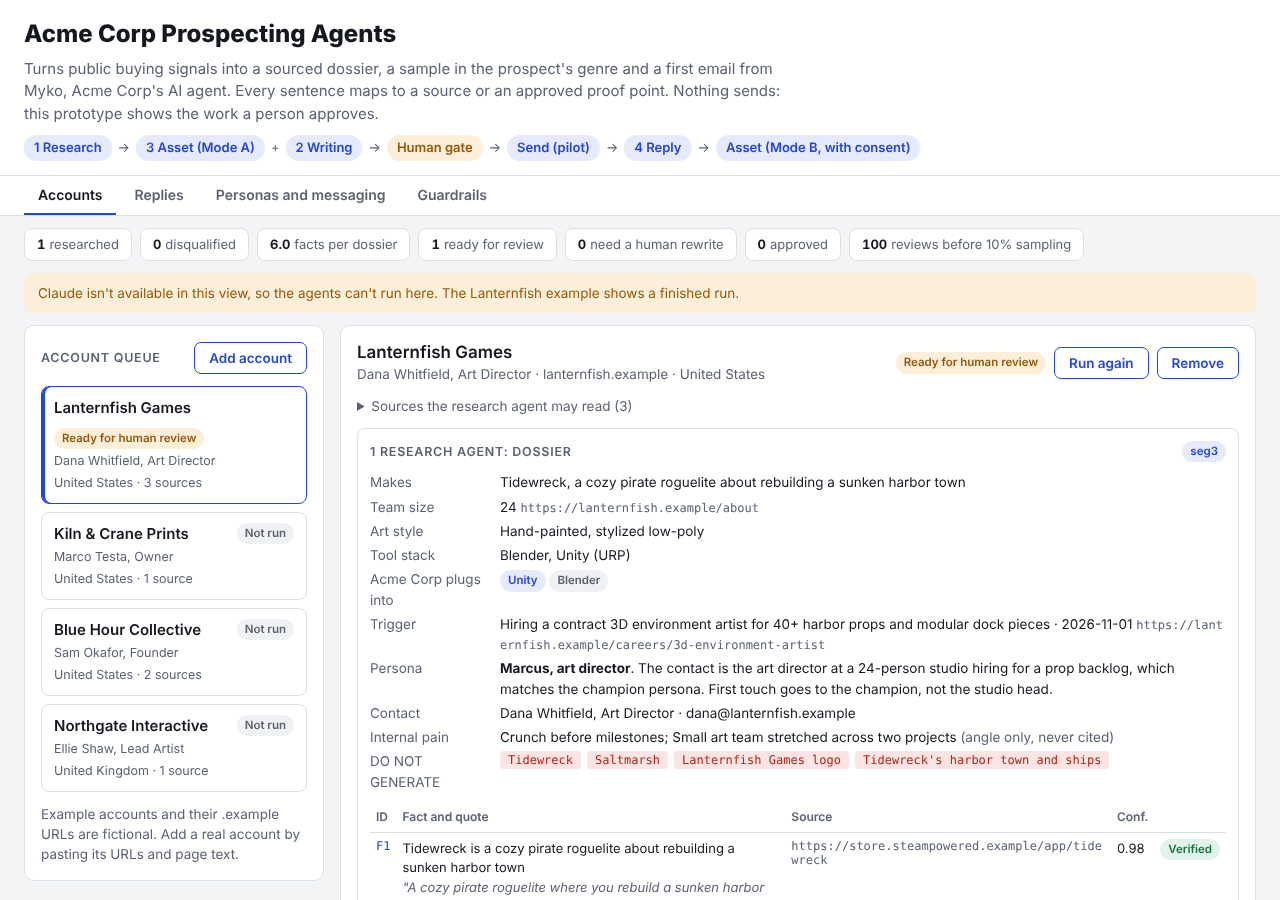
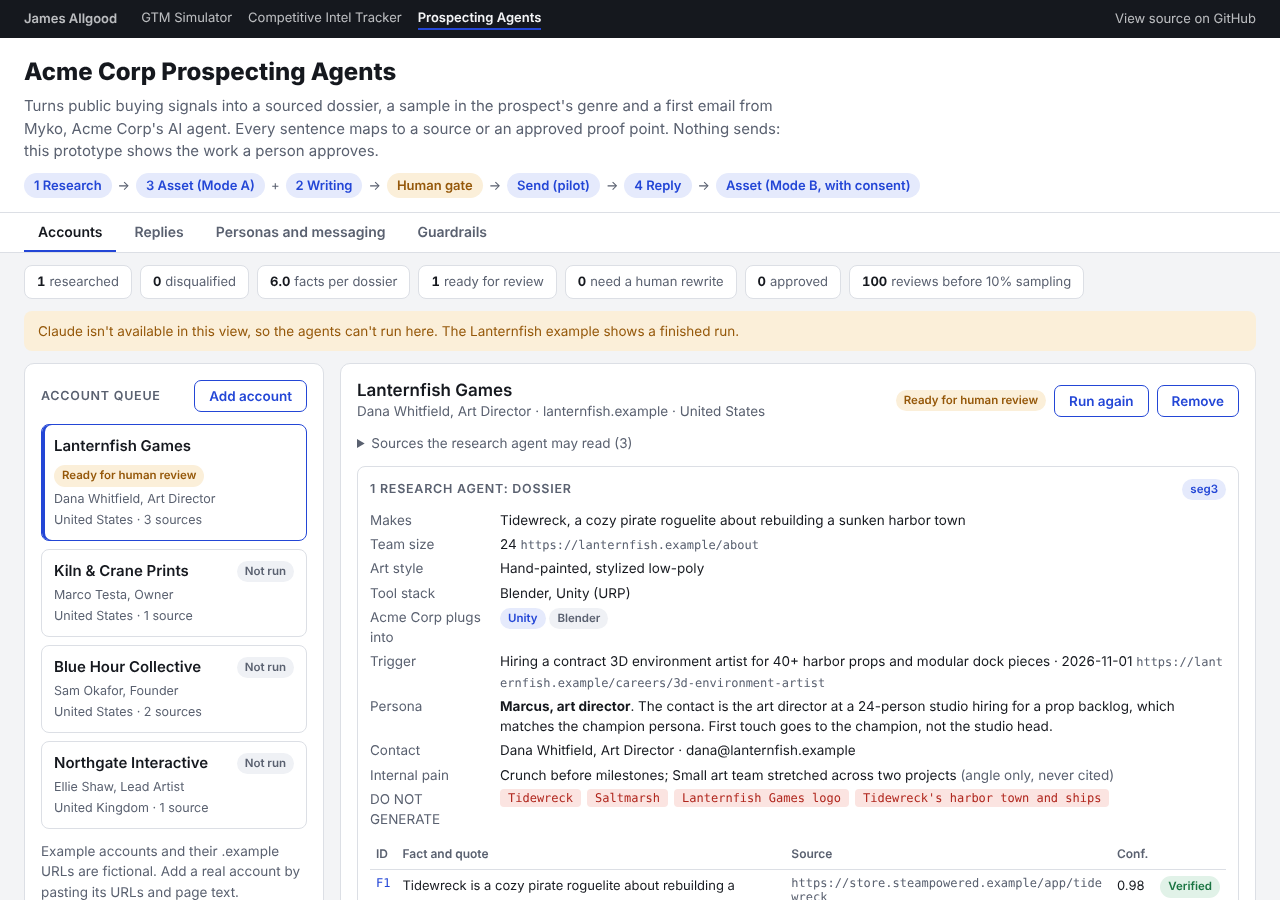
Add project ribbon linking the GTM Simulator, Competitive Intel Tracker and this demo
Claude-Session: https://claude.ai/code/session_01EqEWXY4rs5ZnRtUAgh6jDu

diff --git a/index.html b/index.html
@@ -31,6 +31,15 @@
 * { box-sizing: border-box; }
 html, body { margin: 0; }
 body { background: var(--bg); color: var(--ink); font: 15px/1.5 var(--body); }
+/* Project ribbon: links back to James's other open-source GTM tools. */
+.ribbon { display: flex; flex-wrap: wrap; align-items: center; gap: 4px 18px; padding: 8px 24px; background: var(--ink); color: var(--bg); font-size: 13px; }
+.ribbon .who { font-weight: 600; margin-right: 6px; }
+.ribbon .who a { color: inherit; text-decoration: none; }
+.ribbon nav { display: flex; flex-wrap: wrap; gap: 4px 16px; }
+.ribbon a { color: var(--bg); opacity: 0.75; text-decoration: none; }
+.ribbon a:hover, .ribbon a:focus-visible { opacity: 1; text-decoration: underline; }
+.ribbon a[aria-current="page"] { opacity: 1; font-weight: 600; border-bottom: 2px solid var(--accent); }
+.ribbon .gh { margin-left: auto; }
 .top { padding: 20px 24px 14px; display: grid; gap: 10px; border-bottom: 1px solid var(--line); background: var(--panel); }
 h1 { font: 800 24px/1.15 var(--display); margin: 0; text-wrap: balance; }
 h2 { font: 600 17px/1.25 var(--display); margin: 0; text-wrap: balance; }
@@ -114,6 +123,15 @@ details summary { cursor: pointer; }
 </style>
 </head>
 <body>
+<div class="ribbon" role="navigation" aria-label="James Allgood's projects">
+  <span class="who"><a href="https://jamesallgood.com/ai-skills.html">James Allgood</a></span>
+  <nav>
+    <a href="https://jamesallgood99.github.io/gtm-simulator/">GTM Simulator</a>
+    <a href="https://jamesallgood99.github.io/competitive-intel-tracker/">Competitive Intel Tracker</a>
+    <a href="https://jamesallgood99.github.io/acme-prospecting-agents/" aria-current="page">Prospecting Agents</a>
+  </nav>
+  <a class="gh" href="https://github.com/jamesallgood99/acme-prospecting-agents">View source on GitHub</a>
+</div>
 <div class="top">
   <h1>Acme Corp Prospecting Agents</h1>
   <p class="sub">Turns public buying signals into a sourced dossier, a sample in the prospect's genre and a first email from Myko, Acme Corp's AI agent. Every sentence maps to a source or an approved proof point. Nothing sends: this prototype shows the work a person approves.</p>
